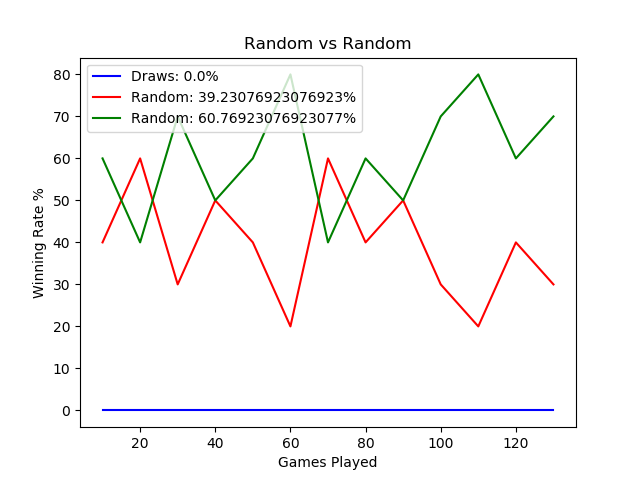
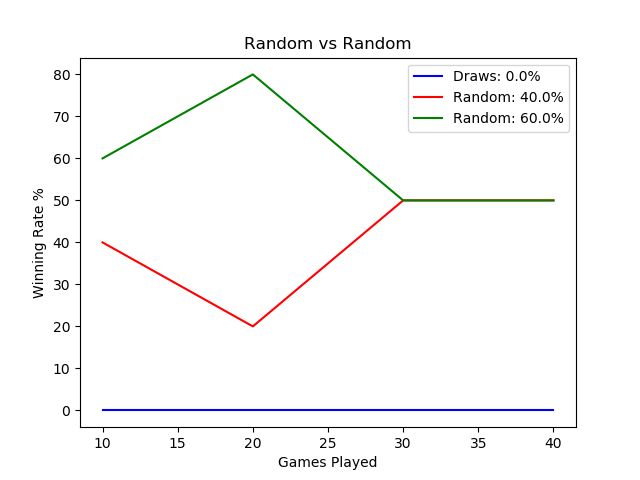
Updated env, with graph output in pygame, support for resizing window

diff --git a/TechDemo/env.py b/TechDemo/env.py
@@ -2,16 +2,21 @@ import numpy as np
 from board import Connect4Board
 from random import choice
 import pygame
+from pygame.locals import *
 import math
 import random
+import matplotlib
+matplotlib.use("Agg")
 import matplotlib.pyplot as plt
+import matplotlib.backends.backend_agg as agg
+import pylab
 import threading
 
 
 class Connect4Env:
     def __init__(self, squaresize,row,col,game):
         self.SQUARESIZE = squaresize
-        self. RADIUS = int(self.SQUARESIZE/2 - 5)
+        self. RADIUS = int(self.SQUARESIZE/2 - 6)
         self.ROW_COUNT = row
         self.COLUMN_COUNT = col
 
@@ -19,11 +24,13 @@ class Connect4Env:
         pygame.init()
 
         self.WIDTH = self.game.COLUMN_COUNT * self.SQUARESIZE
-        self.HEIGHT = (self.game.ROW_COUNT+1) * self.SQUARESIZE
+        self.HEIGHT = (self.game.ROW_COUNT + 1) * self.SQUARESIZE
 
-        self.size = (self.WIDTH*2, self.HEIGHT)
+        self.size = (1920, 1080)
 
         self.screen = pygame.display.set_mode(self.size)
+        self.display_screen = self.screen.copy()
+        pygame.display.set_caption("FYP")
         
         self.board = self.game.create_board()
 
@@ -57,7 +64,7 @@ class Connect4Env:
 
         self.totalPlayer1wins = 0
         self.totalPlayer2wins = 0
-        self.myfont = pygame.font.SysFont("monospace", 45)
+        self.myfont = pygame.font.SysFont("monospace", 60)
 
     ##def reset(self):
         ##self.board = TicTacToeBoard()
@@ -94,7 +101,7 @@ class Connect4Env:
         
         for c in range(self.COLUMN_COUNT):
             for r in range(self.ROW_COUNT):
-                pygame.draw.rect(screen, self.BOARD, (c*self.SQUARESIZE, r*self.SQUARESIZE+self.SQUARESIZE, self.SQUARESIZE, self.SQUARESIZE))
+                pygame.draw.rect(screen, self.BOARD, (c*self.SQUARESIZE, r*self.SQUARESIZE+self.SQUARESIZE , self.SQUARESIZE, self.SQUARESIZE))
                 pygame.draw.circle(screen, self.BG, (int(c*self.SQUARESIZE+self.SQUARESIZE/2), int(r*self.SQUARESIZE+self.SQUARESIZE+self.SQUARESIZE/2)), self.RADIUS)
 
         for c in range(self.COLUMN_COUNT):
@@ -194,45 +201,71 @@ class Connect4Env:
 
 
     def plot_history(self, player1, player2):
-        plt.figure()
         
-        plt.xlabel('Games Played')
-        plt.ylabel('Winning Rate %')
+        #plt.figure(1)
+        
+        #plt.xlabel('Games Played')
+        #plt.ylabel('Winning Rate %')
         drawsAvg = self.calc_avg(self.drawn_games)
-        if len(self.drawn_games) != 0:
-            plt.plot(self.game_number,self.drawn_games,'b-', label="Draws" + ": " + str(drawsAvg) + "%" )
+        #if len(self.drawn_games) != 0:
+         #   plt.plot(self.game_number,self.drawn_games,'b-', label="Draws" + ": " + str(drawsAvg) + "%" )
         player1Avg = self.calc_avg(self.player1_wins)
         player2Avg = self.calc_avg(self.player2_wins)
-        
-        if player1.getTag() == "Ann" or player1.getTag()=="Q":
-            plt.plot(self.game_number,self.player2_wins,'r-', label=player2.getTag() + ": " + str(player2Avg) + "%" )
-            plt.plot(self.game_number, self.player1_wins, 'g-', label=player1.getTag() + ": " + str(player1Avg) + "%")
-            if player1.training == False:
-                plt.title('Trained '+ str(player1.description)+' vs ' + str(player2.tag))
-            else:
-                plt.title('Training '+ str(player1.description)+' vs ' + str(player2.tag))
-        elif player2.getTag() == "Ann" or player2.getTag() == "Q":
-            plt.plot(self.game_number,self.player2_wins,'g-', label=player2.getTag() + ": " + str(player2Avg) + "%")
-            plt.plot(self.game_number, self.player1_wins, 'r-', label=player1.getTag() + ": " + str(player1Avg) + "%")
-            if player1.training == False:
-                plt.title('Trained '+ str(player2.description)+' vs ' + str(player1.tag))
-            else:
-                plt.title('Training '+ str(player2.description)+' vs ' + str(player1.tag))
-        else :
-            plt.plot(self.game_number,self.player2_wins,'r-', label=player2.getTag() + ": " + str(player2Avg) + "%" )
-            plt.plot(self.game_number, self.player1_wins, 'g-', label=player1.getTag() + ": " + str(player1Avg) + "%")
-            plt.title(str(player1.description)+' vs ' + str(player2.description))
+        ##For outputting graphs for testing pirposes
+        #if player1.getTag() == "Ann" or player1.getTag()=="Q":
+           # plt.plot(self.game_number,self.player2_wins,'r-', label=player2.getTag() + ": " + str(player2Avg) + "%" )
+           # plt.plot(self.game_number, self.player1_wins, 'g-', label=player1.getTag() + ": " + str(player1Avg) + "%")
+            #plt.title(str(player1.description)+' vs ' + str(player2.description))
+           
+       # elif player2.getTag() == "Ann" or player2.getTag() == "Q":
+           # plt.plot(self.game_number,self.player2_wins,'g-', label=player2.getTag() + ": " + str(player2Avg) + "%")
+            #plt.plot(self.game_number, self.player1_wins, 'r-', label=player1.getTag() + ": " + str(player1Avg) + "%")
+            #if player1.training == False:
+               # plt.title('Trained '+ str(player2.description)+' vs ' + str(player1.tag))
+            #else:
+                #plt.title('Training '+ str(player2.description)+' vs ' + str(player1.tag))
+        #else :
+           # plt.plot(self.game_number,self.player2_wins,'y-', label=player2.getTag() + ": " + str(player2Avg) + "%" )
+            #plt.plot(self.game_number, self.player1_wins, 'r-', label=player1.getTag() + ": " + str(player1Avg) + "%")
+            #plt.title(str(player1.description)+' vs ' + str(player2.description))
            
 
     
-        plt.legend()
+        #plt.legend()
+
+        #plt.draw()
+        #plt.savefig("graph.png")
+        #graphImg = pygame.image.load("graph.png")
+        #self.screen.fill(self.BG)
+        #self.screen.blit(graphImg, (700,100))
+        #pygame.display.update()
+        #plt.show(block = False)
 
         
-        plt.savefig("graph.png")
-        graphImg = pygame.image.load("graph.png")
-        self.screen.blit(graphImg, (700,100))
+
+        fig = pylab.figure(figsize=[8, 4], # Inches
+                   dpi=100,        # 100 dots per inch, so the resulting buffer is 400x400 pixels
+                   )
+        ax = fig.gca()
+        ax.set_xlabel("Games Played")
+        ax.set_ylabel("Winning Rate %")
         
-        #plt.show()
+        if len(self.drawn_games) != 0:
+            ax.plot(self.game_number,self.drawn_games,'b-', label="Draws" + ": " + str(round(drawsAvg,2)) + "%" )
+        #if len(self.game_number) > 0:
+        ax.plot(self.game_number,self.player2_wins, self.YELLOW, label=player2.getTag() + ": " + str(round(player2Avg,2)) + "%" )
+        ax.plot(self.game_number,self.player1_wins,self.RED, label=player1.getTag() + ": " + str(round(player1Avg,2)) + "%" )
+        ax.set_title(str(player1.description)+' vs ' + str(player2.description))
+        ax.legend()
+
+        canvas = agg.FigureCanvasAgg(fig)
+        canvas.draw()
+        renderer = canvas.get_renderer()
+        raw_data = renderer.tostring_rgb()
+        size = canvas.get_width_height()
+        self.graph_surf = pygame.image.fromstring(raw_data, size, "RGB")
+        
+        
     def win_percentage(self,wins, games):
         percentage = 100 * float(wins) / float(games)
         self.win_his.append(percentage)
@@ -241,10 +274,13 @@ class Connect4Env:
     def play(self,player1, player2):
         self.gameNumber = 0
         myfont = pygame.font.SysFont("monospace", 75)
+       
+        
         for i in range(self.battles):
             player1wins = 0
             player2wins = 0
             draws = 0
+            #self.plot_history(player1, player2)
             for i in range(self.games):
 
                 self.startTurn = 0
@@ -252,31 +288,44 @@ class Connect4Env:
                 
                 self.gameNumber+=1
                 
-                self.screen = pygame.display.set_mode(self.size)
-                self.screen.fill(self.BG)
+                
                 
                 self.game_over = False
             
                 self.board = self.game.create_board()
                 print("episode "+ str(i))
-
-                numGames = myfont.render(
-                    "Game: " + str(self.gameNumber), 1, self.RED)
-                self.screen.blit(numGames, (40, 10))
-
-                self.draw_board(self.board, self.screen, pygame)
+                
                 #self.display_stats(player1,player2)
+                if i == 0 and self.gameNumber > 9:
+                        self.plot_history(player1,player2)
                 
-                
-                
-                
-
             
                 while not self.game_over:
-
                     for event in pygame.event.get():
                         if event.type == pygame.QUIT:
                                 sys.exit()
+                        if event.type == pygame.VIDEORESIZE:
+                            pass
+                            size = event.dict['size']
+                            self.display_screen = pygame.display.set_mode(size,RESIZABLE)
+                            # On the next line, if only part of the window
+                            # needs to be copied, there's some other options.
+                            #urface.blit(old_surface_saved, (0,0))
+                            #del old_surface_saved
+
+                    self.screen.fill(self.BG)
+                    numGames = myfont.render(
+                    "Game: " + str(self.gameNumber), 1, self.RED)
+                    self.screen.blit(numGames, (40, 10))
+
+                    self.draw_board(self.board, self.screen, pygame)
+                    self.display_stats(player1,player2)
+                    if self.gameNumber > 10:
+                        self.screen.blit(self.graph_surf, ((self.screen.get_rect().width / 4) * 3 - 400,500))
+                    self.display_screen.blit(pygame.transform.scale(self.screen, size), (0,0))
+                    pygame.display.flip()
+
+                    
                     if self.turn == self.PLAYER1 and not self.game_over:
                         if(player1.getTag() == "Human"):
 
@@ -284,9 +333,10 @@ class Connect4Env:
                             if event.type == pygame.MOUSEMOTION:
                                 pygame.draw.rect(self.screen, self.BG, (0,0, self.WIDTH, self.SQUARESIZE))
                                 posx = event.pos[0]
+                                
                                 if self.turn == self.PLAYER1:
                                     pygame.draw.circle(self.screen, self.RED, (posx, int(self.SQUARESIZE/2)), self.RADIUS)
-
+                            
                             pygame.display.update()
 
                             if event.type == pygame.MOUSEBUTTONDOWN:
@@ -316,8 +366,10 @@ class Connect4Env:
                                     self.turn = self.turn % 2
 
                                     self.print_board(self.board)
+                                   
                                     self.draw_board(self.board, self.screen, pygame)
-                                    pygame.display.flip()
+                                    
+                                    pygame.display.update()
                                     
                                     pygame.time.wait(250)
                         else:
@@ -349,8 +401,10 @@ class Connect4Env:
                                 self.game.drop_piece(self.board, row, col, self.PLAYER1_PIECE)
 
                                 self.print_board(self.board)
+                               
                                 self.draw_board(self.board, self.screen, pygame)
-                                pygame.display.flip()
+                              
+                                #pygame.display.flip()
                                
 
                                 self.turn += 1
@@ -389,9 +443,10 @@ class Connect4Env:
                             if event.type == pygame.MOUSEMOTION:
                                 pygame.draw.rect(self.screen, self.BG, (0,0, self.WIDTH, self.SQUARESIZE))
                                 posx = event.pos[0]
+                                
                                 if self.turn == self.PLAYER2:
                                     pygame.draw.circle(self.screen, self.YELLOW, (posx, int(self.SQUARESIZE/2)), self.RADIUS)
-
+                            
                             pygame.display.update()
 
                             if event.type == pygame.MOUSEBUTTONDOWN:
@@ -417,8 +472,10 @@ class Connect4Env:
                                     self.turn = self.turn % 2
 
                                     self.print_board(self.board)
+                                    
                                     self.draw_board(self.board, self.screen, pygame)
-                                    pygame.display.flip()
+                              
+                                    pygame.display.update()
                                    
                                     pygame.time.wait(250)
 
@@ -451,9 +508,10 @@ class Connect4Env:
 
                                
                                 self.print_board(self.board)
-                            
+                              
                                 self.draw_board(self.board, self.screen, pygame)
-                                pygame.display.flip()
+                                
+                               # pygame.display.flip()
                                
 
                                 self.turn += 1
@@ -504,9 +562,7 @@ class Connect4Env:
             percentage = self.win_percentage(draws, self.games)
             self.drawn_games.append(percentage)
             self.game_number.append(self.gameNumber)
-            threading.Thread(target=self.plot_history,
-                args=(player1, player2)
-                ).start()
+            
 
             
 

diff --git a/TechDemo/agents/deep_q_agent.py b/TechDemo/agents/deep_q_agent.py
@@ -23,7 +23,10 @@ class DeepQAgent:
         self.random_move_prob = 1
         self.training = training
         self.hidden_nodes = 27
-        self.description = "Deep Q Agent"
+        if training == False:
+            self.description = "Trained Deep Q Agent"
+        else:
+            self.description = "Training Deep Q Agent"
         self.nn_model = self.init_model()
         self.action_log = []
         self.discount = 0.8

diff --git a/TechDemo/play.py b/TechDemo/play.py
@@ -24,8 +24,8 @@ import pygame
 
 def main():
 
-    SQUARESIZE = 100
-    RADIUS = int(SQUARESIZE/2 - 5)
+    SQUARESIZE = 125
+    RADIUS = int(SQUARESIZE/2 -6)
     ROW_COUNT = 6
     COLUMN_COUNT = 7
     game = Connect4Board(SQUARESIZE, RADIUS, COLUMN_COUNT, ROW_COUNT)
